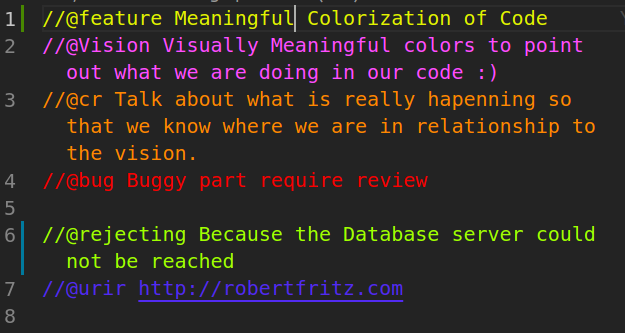
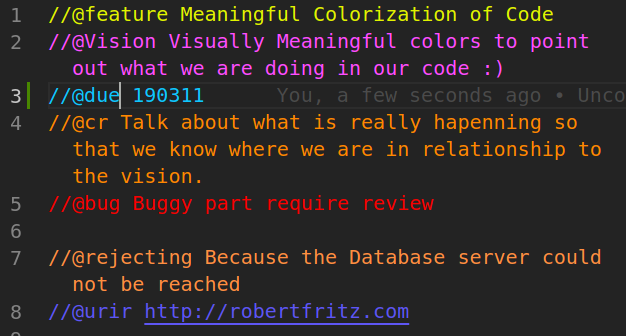
minor: screenshot preview upgraded

diff --git a/sample-dekos.js b/sample-dekos.js
@@ -1,5 +1,6 @@
 //@feature Meaningful Colorization of Code
 //@Vision Visually Meaningful colors to point out what we are doing in our code :)
+//@due 190311
 //@cr Talk about what is really hapenning so that we know where we are in relationship to the vision.
 //@bug Buggy part require review
 
@@ -12,7 +13,6 @@
 
 //@resolving Data was valid
 
-//@d 190311
 
 //@issue Handle exception on server disconnected
 

diff --git a/CHANGELOG.md b/CHANGELOG.md
@@ -1,5 +1,13 @@
 # Change Log
 
+## [1.0.93] (2010-04-20)
+### Changed
+* minor: screenshot preview upgraded
+
+## [1.0.92] (2010-04-20)
+### Changed
+* minor doc
+
 ## [1.0.91] (2010-04-20)
 ### Changed
 * preview upgraded
